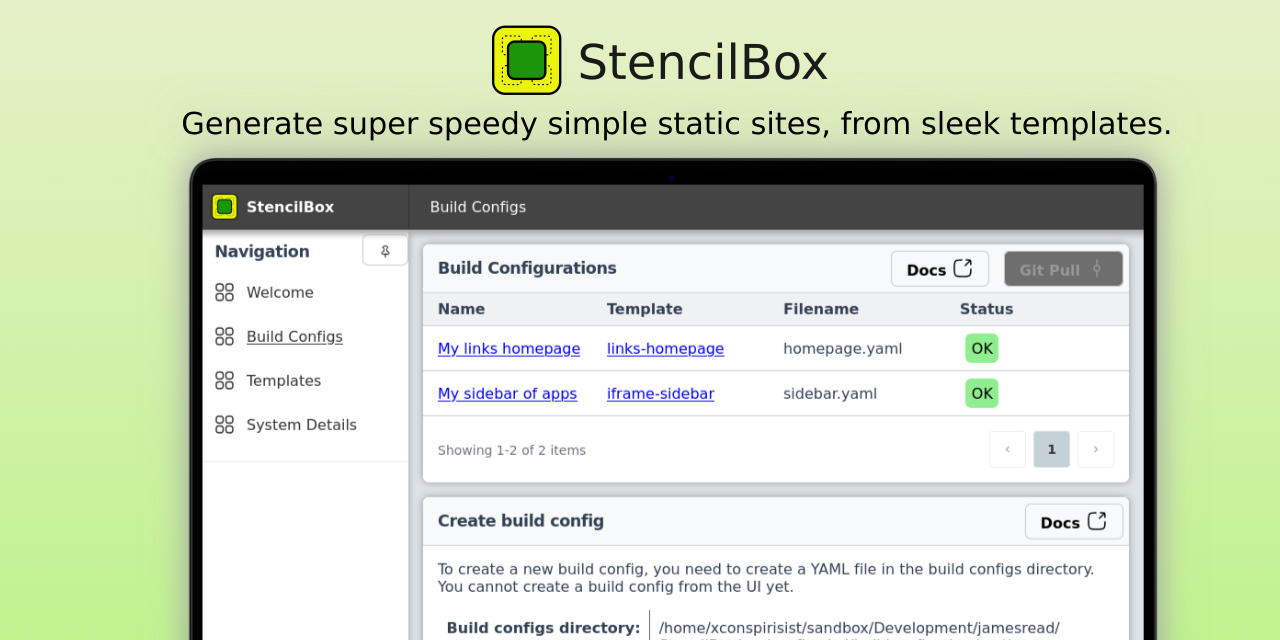
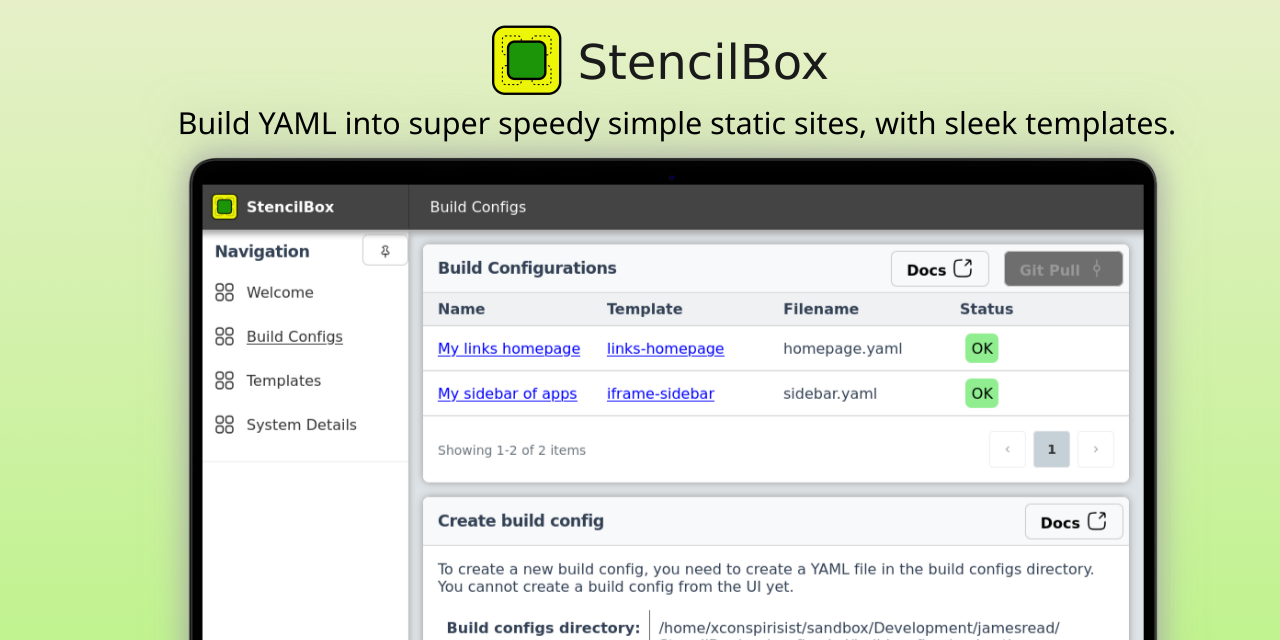
docs: Much more focussed project description

Changed region(s): [[0.125, 0.1562, 0.9375, 0.2188]]

diff --git a/README.md b/README.md
@@ -2,7 +2,7 @@
   <img alt = "project logo" src = "logo.png" width = "128" />
   <h1>StencilBox</h1>
 
-Generate super speedy simple static sites, from sleek templates.
+Build YAML into super speedy simple static sites, with sleek templates.
 
 ![Maturity Badge](https://img.shields.io/badge/maturity-beta-orange)
 [![Discord](https://img.shields.io/discord/846737624960860180?label=Discord%20Server)](https://discord.gg/jhYWWpNJ3v)
@@ -23,6 +23,8 @@ Generate super speedy simple static sites, from sleek templates.
 * **As a sysadmin**, I want to give my users who can understand a YAML file a simple way to create pages without needing to know about Git, worry about tooling, or hosting.
 * **As a developer**, I want data in YAML format to be rendered to a nice looking webpage (eg: XSLT).
 
+See the **Screenshots** 
+
 ### FAQ
 <details>
 <summary>How does it compare to heimdall, homepage, and other similar tools?</summary>
@@ -37,9 +39,9 @@ StencilBox is similar in concept to those tools, with the following differences 
 <details>
   <summary>How does it compare to Hugo, Jekyll, and other static site generators?</summary>
 
-  StencilBox is also very similar in concept to many other static site generators.
+  StencilBox is also very similar in concept to many other static site generators, but it's focus on YAML data files and providing a simple repeatable workflow for multiple sites is a key difference. 
 
-However those are tailored for public websites, blogs, and they send to be run in a command line / CI system. StencilBox provides a handy API, and WebUI, and is pretty flexible to generate any type of static site.
+Many other tools are focussed on text content (typically via Markdown) - which is geat for public websites, blogs and similar. StencilBox doesn't support Markdown (yet), and it's main purpose is to turn data into sites, rather than content. Hugo and Jekyll **can do this**, they're excellent tools, but StencilBox was built after trying to use those tools and finding them too complex for the simple use cases StencilBox targets.
 
 </details>
 
